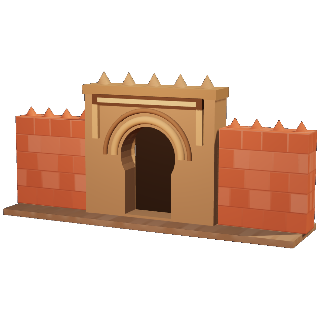
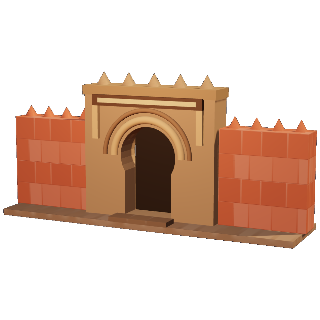
Marrakech: harder builds on later streets (12, 17, 27 pieces), more handcarts
Dan: the game is a bit too easy, and construction should get harder as the
streets go on. Bab Agnaou and the Ben Youssef Madrasa are split into more
pieces (walls in courses, the gate's carving piece by piece, the madrasa's
galleries in bays), and handcarts take a larger share of rows on streets
2 and 3. The general puzzle tuning is the main session's (puzzle.js).

diff --git a/src/puzzle/landmarks.js b/src/puzzle/landmarks.js
@@ -906,9 +906,11 @@ const defs = {
   // tall, its faces carved with arches and a lozenge net (sebka) that grows
   // busier towards the top, a band of turquoise tile under stepped merlons,
   // then the small lantern tower, its dome, and the spire of copper balls.
+  // Street 1: about a dozen pieces.
   koutoubia: [
     B([0, 0.3, 0], [7.2, 0.6, 7.2], '#a88468', 'box', { tex: 'stone' }),
-    B([0, 2.9, 0], [4.4, 4.6, 4.4], '#c08660', 'box', { tex: 'stone', tx: { cols: 4, rows: 5 } }),
+    B([0, 1.75, 0], [4.4, 2.3, 4.4], '#bc845e', 'box', { tex: 'stone', tx: { cols: 4, rows: 3 } }),
+    B([0, 4.05, 0], [4.4, 2.3, 4.4], '#c08660', 'box', { tex: 'stone', tx: { cols: 4, rows: 3 } }),
     B([0, 7.2, 0], [4.4, 4.0, 4.4], '#c48a62', 'box', { tex: 'arch', tx: { n: 2 } }),
     B([0, 11.2, 0], [4.4, 4.0, 4.4], '#c68c64', 'box', { tex: 'sebka', tx: { n: 3 } }),
     B([0, 15.2, 0], [4.4, 4.0, 4.4], '#c88e66', 'box', { tex: 'sebka', tx: { n: 4 } }),
@@ -922,12 +924,10 @@ const defs = {
         ]),
       ],
     }),
-    B([0, 20.4, 0], [1.8, 2.8, 1.8], '#c88e66', 'box', {
-      tex: 'sebka', tx: { n: 1 },
-      adorn: [B([0, 1.1, 0], [1.85, 0.4, 1.85], '#2e8a86', 'box', { tex: 'tile' })],
-    }),
-    B([0, 22.1, 0], [1.6, 0.9, 1.6], '#3a8a6a', 'dome'),
-    B([0, 23.6, 0], [0.9, 2.2, 0.9], '#d8b04a', 'group', {
+    B([0, 20.2, 0], [1.8, 2.4, 1.8], '#c88e66', 'box', { tex: 'sebka', tx: { n: 1 } }),
+    B([0, 21.6, 0], [1.9, 0.4, 1.9], '#2e8a86', 'box', { tex: 'tile' }),
+    B([0, 22.25, 0], [1.6, 0.9, 1.6], '#3a8a6a', 'dome'),
+    B([0, 23.75, 0], [0.9, 2.2, 0.9], '#d8b04a', 'group', {
       adorn: [
         B([0, 0, 0], [0.1, 2.2, 0.1], '#c8a040', 'cyl', { metal: 1 }),
         B([0, -0.6, 0], [0.62, 0.62, 0.62], '#e0b84e', 'sphere', { metal: 1, em: '#ffd070', emI: 0.3 }),
@@ -940,33 +940,32 @@ const defs = {
   // Bab Agnaou: the carved stone gate of the royal kasbah. A horseshoe arch
   // under bands of carved stone, set in a rectangular frame with an
   // inscription band across the top, between walls of rammed red earth.
+  // Street 2: about eighteen pieces; the carving goes on piece by piece.
   babagnaou: [
     B([0, 0.2, 0], [20, 0.4, 5], '#9a7a62', 'box', { tex: 'stone' }),
-    ...[-1, 1].map((sx) => B([sx * 7.4, 3.4, -0.4], [5.6, 6.0, 1.8], '#c46a4c', 'box', {
-      tex: 'stone', tx: { cols: 4, rows: 5, rough: 1 },
-      adorn: [-2.1, -0.7, 0.7, 2.1].map((x) => B([x, 3.3, 0], [0.6, 0.6, 1.0], '#c46a4c', 'pyramid')),
-    })),
+    B([0, 0.55, 2.0], [4.0, 0.3, 1.2], '#8a6c54', 'box', { tex: 'stone' }),          // threshold step
+    ...[-1, 1].flatMap((sx) => [
+      B([sx * 7.4, 1.9, -0.4], [5.6, 3.0, 1.8], '#c06648', 'box', { tex: 'stone', tx: { cols: 4, rows: 2, rough: 1 } }),
+      B([sx * 7.4, 4.9, -0.4], [5.6, 3.0, 1.8], '#c46a4c', 'box', { tex: 'stone', tx: { cols: 4, rows: 2, rough: 1 } }),
+      B([sx * 7.4, 6.75, -0.4], [5.6, 0.7, 1.0], '#c46a4c', 'group', {
+        adorn: [-2.1, -0.7, 0.7, 2.1].map((x) => B([x, 0, 0], [0.6, 0.7, 1.0], '#c46a4c', 'pyramid')),
+      }),
+    ]),
+    B([0, 3.4, -0.6], [3.2, 5.8, 0.2], '#3a2a20'),                                    // the dark passage
     B([0, 4.4, 0], [9.0, 8.0, 2.0], '#b08c6a', 'extrude', {
       outline: [[-0.5, -0.5], [0.5, -0.5], [0.5, 0.5], [-0.5, 0.5]],
       holes: [{ x: 0, y: -0.12, w: 0.36, h: 0.72, arch: 'horseshoe' }],
-      adorn: [
-        B([0, -1.0, -0.6], [3.2, 5.8, 0.2], '#3a2a20'),                                  // the dark passage
-        B([0, 0.0, 1.05], [5.2, 2.6, 0.5], '#d4aa7a', 'arch'),                             // carved bands
-        B([0, 0.0, 1.15], [6.2, 3.1, 0.3], '#9a7454', 'arch'),
-      ],
     }),
-    B([0, 7.0, 1.15], [7.6, 2.6, 0.3], '#d4aa7a', 'group', {                            // frame and inscription
-      adorn: [
-        B([0, 0.9, 0], [7.6, 0.7, 0.3], '#6a4a34'),
-        B([0, 0.9, 0.12], [6.8, 0.3, 0.1], '#e0c08a', 'box', { em: '#ffd8a0', emI: 0.1 }),
-        B([-3.6, -0.5, 0], [0.4, 2.2, 0.3], '#d4aa7a'), B([3.6, -0.5, 0], [0.4, 2.2, 0.3], '#d4aa7a'),
-      ],
+    B([0, 4.41, 1.05], [5.2, 2.6, 0.5], '#d4aa7a', 'arch'),                           // inner carved band
+    B([0, 4.42, 1.15], [6.2, 3.1, 0.3], '#9a7454', 'arch'),                           // outer carved band
+    B([-3.6, 6.5, 1.15], [0.4, 2.2, 0.3], '#d4aa7a'),                                 // the frame
+    B([3.6, 6.5, 1.15], [0.4, 2.2, 0.3], '#d4aa7a'),
+    B([0, 7.9, 1.15], [7.6, 0.7, 0.3], '#6a4a34', 'box', {                           // inscription band
+      adorn: [B([0, 0, 0.12], [6.8, 0.3, 0.1], '#e0c08a', 'box', { em: '#ffd8a0', emI: 0.1 })],
     }),
-    B([0, 8.9, 0], [9.2, 1.4, 2.2], '#b08c6a', 'group', {
-      adorn: [
-        B([0, -0.4, 0], [9.2, 0.6, 2.2], '#a8845e'),
-        ...[-3.6, -1.8, 0, 1.8, 3.6].map((x) => B([x, 0.3, 0], [0.7, 0.8, 1.2], '#b08c6a', 'pyramid')),
-      ],
+    B([0, 8.5, 0], [9.2, 0.6, 2.2], '#a8845e'),
+    B([0, 9.2, 0], [9.2, 0.8, 1.2], '#b08c6a', 'group', {
+      adorn: [-3.6, -1.8, 0, 1.8, 3.6].map((x) => B([x, 0, 0], [0.7, 0.8, 1.2], '#b08c6a', 'pyramid')),
     }),
   ],
 
@@ -974,31 +973,33 @@ const defs = {
   // on a marble floor, cedar-and-stucco galleries down both sides with the
   // students' rooms above, green-tiled eaves, and the prayer hall's great
   // arch at the far end over a band of zellige tile.
+  // Street 3: about two dozen pieces, the galleries in bays.
   benyoussef: [
-    B([0, 0.2, 0], [17, 0.4, 13], '#e6e0d2', 'box', { tex: 'stone', tx: { cols: 12, rows: 8 } }),
-    B([0, 0.5, 1.2], [3.4, 0.3, 7.4], '#5cc0dc', 'box', { wet: 1, em: '#9ce4f4', emI: 0.4 }),
-    ...[-1, 1].map((sx) => B([sx * 6.8, 2.4, 0.6], [1.6, 4.0, 10], '#ece2cc', 'box', {
-      tex: 'arch', tx: { n: 5 },
-      adorn: [B([0, -1.6, 0], [1.7, 0.8, 10.05], '#2e7a5a', 'box', { tex: 'tile' })],
-    })),
-    ...[-1, 1].map((sx) => B([sx * 6.8, 5.6, 0.6], [1.6, 2.4, 10], '#e2d4b4', 'box', {
-      tex: 'win', tx: { cols: 6, rows: 1, lit: '#e8b070' },
-      adorn: [B([0, -1.0, 0], [1.7, 0.3, 10.05], '#7a4a2a')],
-    })),
-    ...[-1, 1].map((sx) => B([sx * 6.8, 7.3, 0.6], [2.2, 1.0, 10.4], '#2e7a5a', 'prism')),
+    B([-4.25, 0.2, 0], [8.5, 0.4, 13], '#e6e0d2', 'box', { tex: 'stone', tx: { cols: 6, rows: 8 } }),
+    B([4.25, 0.2, 0], [8.5, 0.4, 13], '#e2dccc', 'box', { tex: 'stone', tx: { cols: 6, rows: 8 } }),
+    B([0, 0.45, 1.2], [4.0, 0.2, 8.0], '#cfc6b2'),                                       // the pool's rim
+    B([0, 0.6, 1.2], [3.4, 0.3, 7.4], '#5cc0dc', 'box', { wet: 1, em: '#9ce4f4', emI: 0.4 }),
+    B([0, 0.9, 5.4], [1.2, 0.6, 1.2], '#e6e0d2', 'cyl'),                                 // the basin
+    ...[-1, 1].flatMap((sx) => [
+      B([sx * 6.8, 0.8, 0.6], [1.7, 0.8, 10.05], '#2e7a5a', 'box', { tex: 'tile' }),     // zellige dado
+      B([sx * 6.8, 2.4, -1.9], [1.6, 4.0, 5], '#ece2cc', 'box', { tex: 'arch', tx: { n: 3 } }),
+      B([sx * 6.8, 2.4, 3.1], [1.6, 4.0, 5], '#ece2cc', 'box', { tex: 'arch', tx: { n: 3 } }),
+      B([sx * 6.8, 4.55, 0.6], [1.7, 0.3, 10.05], '#7a4a2a'),                            // cedar beam
+      B([sx * 6.8, 5.9, -1.9], [1.6, 2.4, 5], '#e2d4b4', 'box', { tex: 'win', tx: { cols: 3, rows: 1, lit: '#e8b070' } }),
+      B([sx * 6.8, 5.9, 3.1], [1.6, 2.4, 5], '#e2d4b4', 'box', { tex: 'win', tx: { cols: 3, rows: 1, lit: '#e8b070' } }),
+      B([sx * 6.8, 7.6, -1.9], [2.2, 1.0, 5.2], '#2e7a5a', 'prism'),
+      B([sx * 6.8, 7.6, 3.1], [2.2, 1.0, 5.2], '#2e7a5a', 'prism'),
+    ]),
+    B([0, 3.4, -6.1], [3.4, 5.4, 0.2], '#4a3424'),                                       // the prayer hall, dark within
     B([0, 4.2, -5.6], [10, 8.0, 1.0], '#eadfc6', 'extrude', {
       outline: [[-0.5, -0.5], [0.5, -0.5], [0.5, 0.5], [-0.5, 0.5]],
       holes: [{ x: 0, y: -0.08, w: 0.34, h: 0.7, arch: 'horseshoe' }],
-      adorn: [
-        B([0, -1.0, -0.4], [3.4, 5.4, 0.2], '#4a3424'),
-        B([-3.4, -3.0, 0.55], [3.0, 1.8, 0.1], '#2e7a5a', 'box', { tex: 'tile' }),
-        B([3.4, -3.0, 0.55], [3.0, 1.8, 0.1], '#2e7a5a', 'box', { tex: 'tile' }),
-        B([0, 3.0, 0.55], [10, 1.2, 0.1], '#7a4a2a', 'box', { tex: 'sebka', tx: { n: 8 } }),
-      ],
     }),
+    B([-3.4, 1.25, -5.0], [3.0, 1.8, 0.1], '#2e7a5a', 'box', { tex: 'tile', sortY: 4.3 }),
+    B([3.4, 1.25, -5.0], [3.0, 1.8, 0.1], '#2e7a5a', 'box', { tex: 'tile', sortY: 4.3 }),
+    B([0, 7.2, -5.0], [10, 1.2, 0.1], '#7a4a2a', 'box', { tex: 'sebka', tx: { n: 8 } }),
     B([0, 8.7, -5.6], [10.8, 1.0, 2.0], '#2e7a5a', 'prism'),
   ],
-
 };
 
 export function getLandmark(id) { return defs[id]; }

diff --git a/src/run/mechanics.js b/src/run/mechanics.js
@@ -38,7 +38,7 @@ import { makeHandcart } from '../cities/builders.js';
 // Fairness:
 //   - a cart has its row to itself
 //   - its target lane is never the row's coin lane
-const CART_CHANCE = [0.16, 0.18, 0.2];      // of rows, by level: about 3, 6, 8 a street
+const CART_CHANCE = [0.14, 0.2, 0.26];     // share of rows, by street: more on later streets
 const CART_RATE = 0.16;
 const KERB_X = 5.7;
 const CART = {
